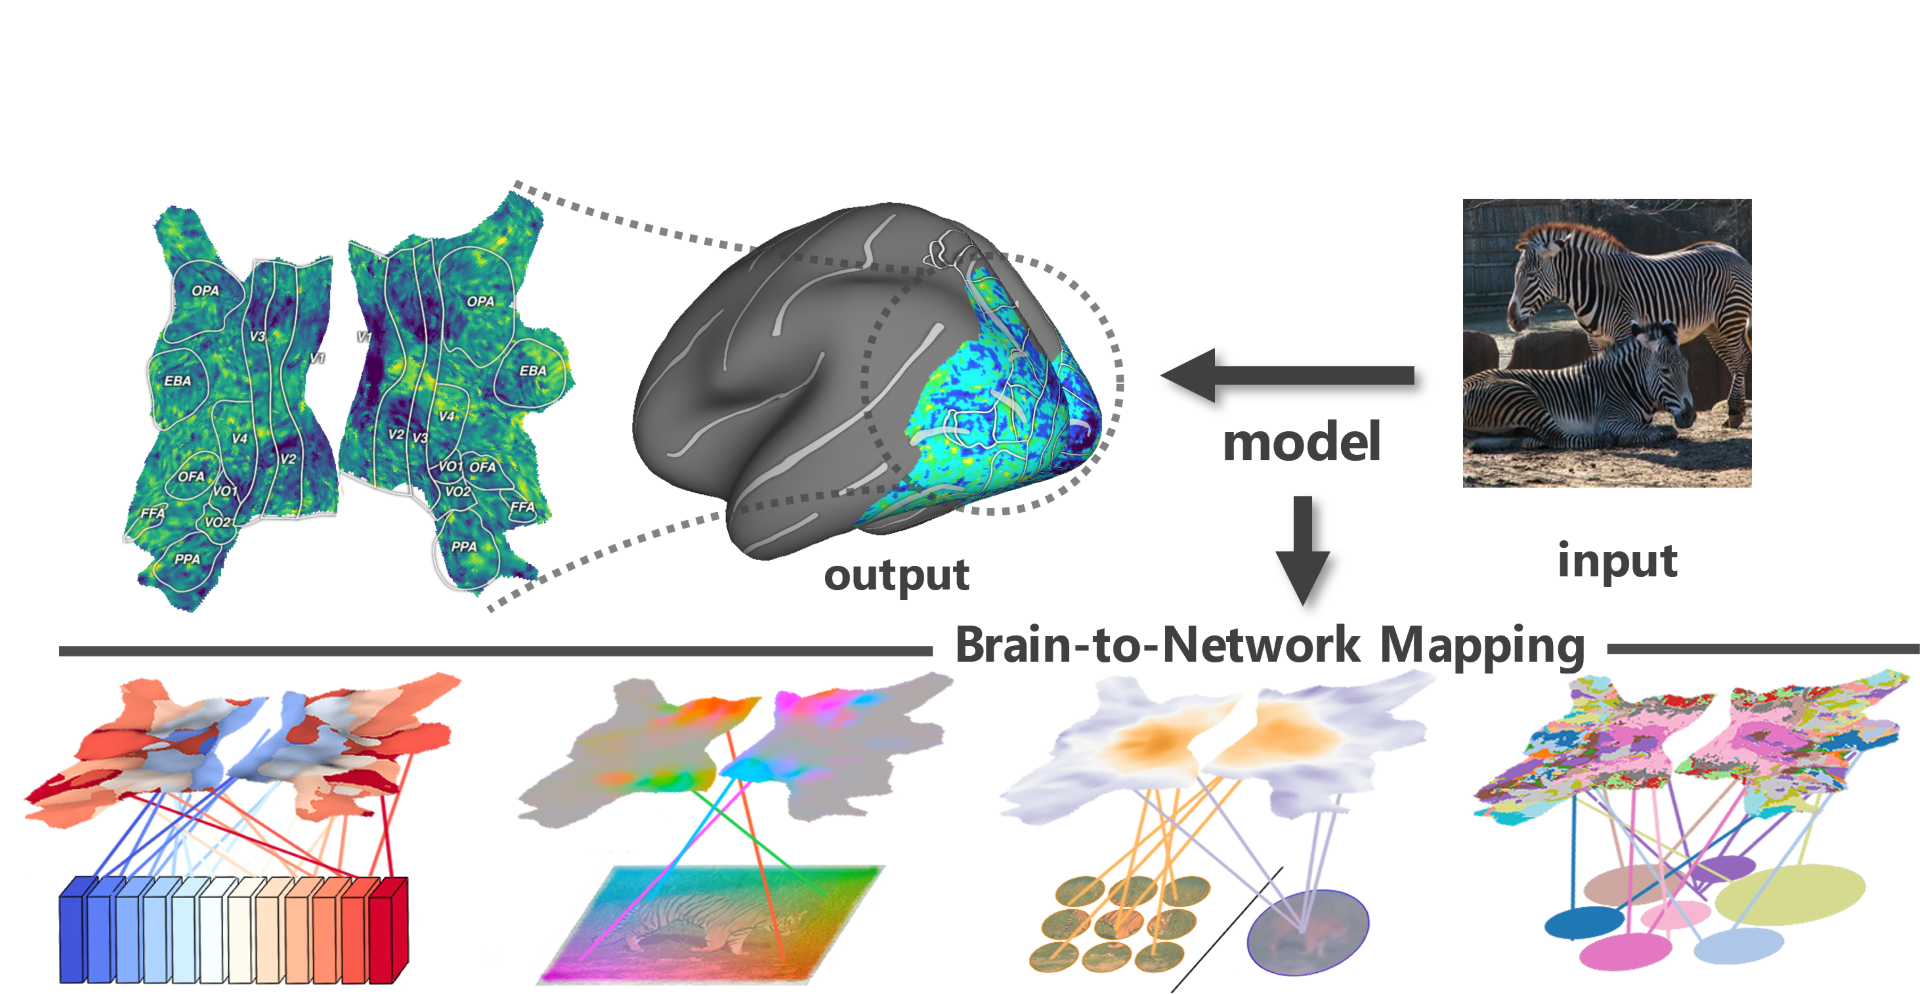
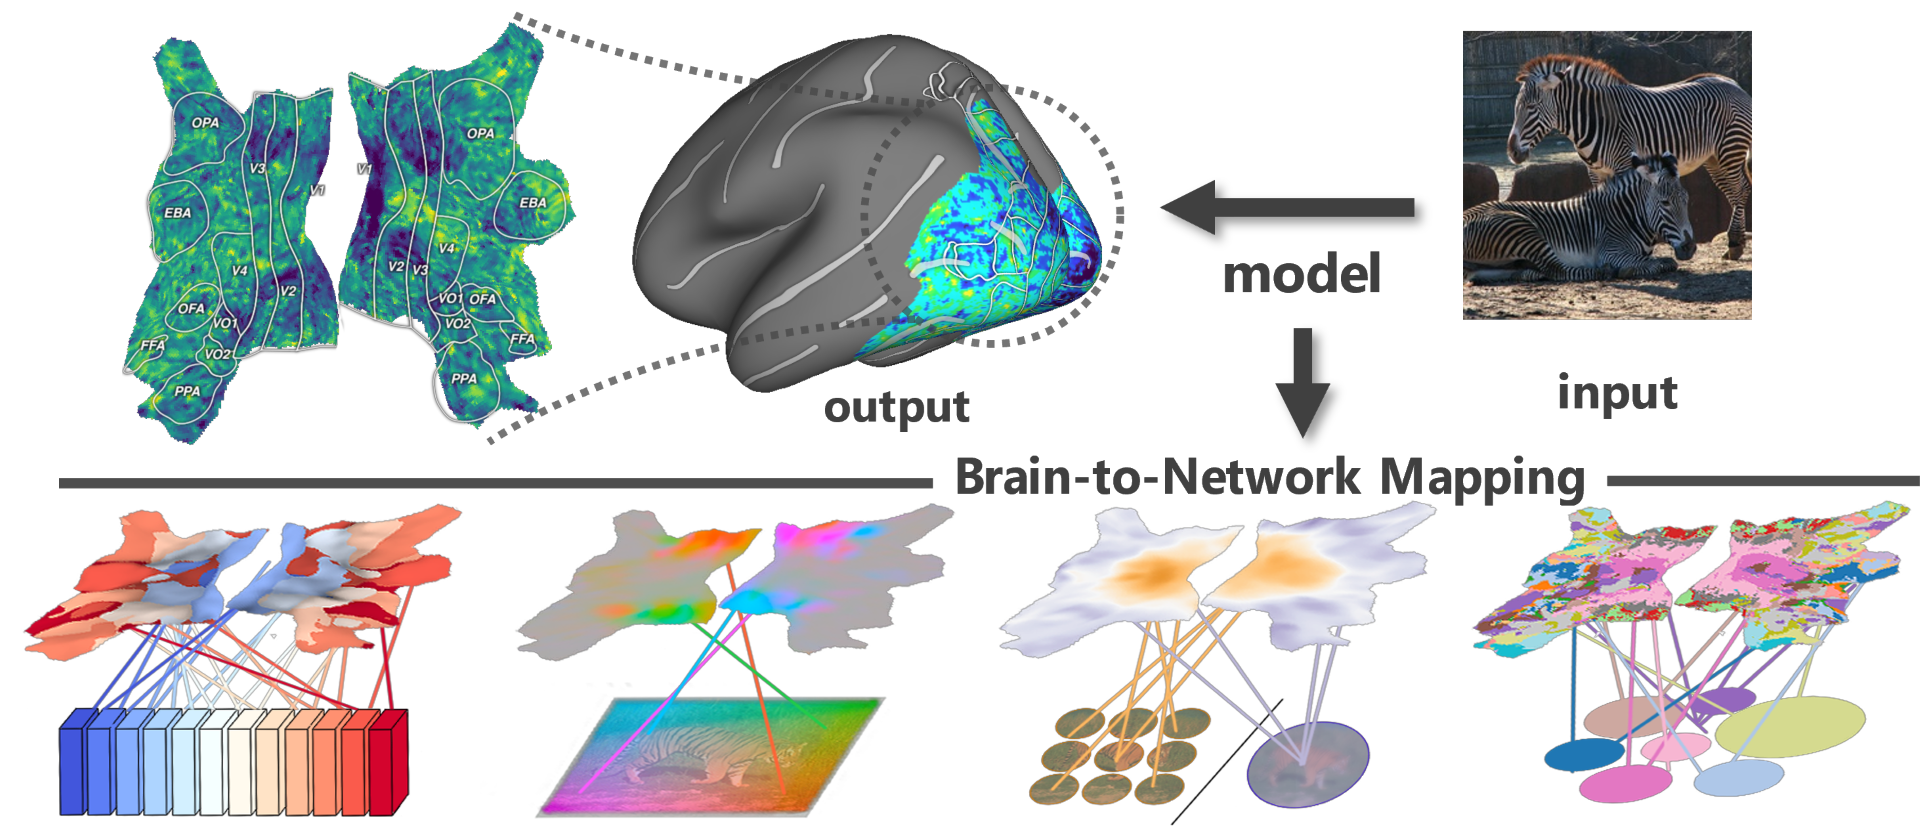
update

diff --git a/_pages/brain-decodes-deep-nets.md b/_pages/brain-decodes-deep-nets.md
@@ -12,7 +12,11 @@ subtitle: null
     <img src="assets/custom_images/slides_teaser.png" width="100%" style="margin-left:0%; margin-right:0%">
   </div> -->
 
-<iframe width="800" height="450" src="https://www.youtube.com/embed/1ZITyYGNLz0" title="Brain Decodes Deep Nets" frameborder="0" allow="accelerometer; autoplay; clipboard-write; encrypted-media; gyroscope; picture-in-picture; web-share" allowfullscreen></iframe>
+<!-- <iframe width="800" height="450" src="https://www.youtube.com/embed/1ZITyYGNLz0" title="Brain Decodes Deep Nets" frameborder="0" allow="accelerometer; autoplay; clipboard-write; encrypted-media; gyroscope; picture-in-picture; web-share" allowfullscreen></iframe> -->
+<div>
+  <img src="assets/custom_images/slides_teaser.png" width="800" style="margin-left:10%; margin-right:10%">
+</div>
+
 
 <!-- <div style="margin-top:100px;">
 We developed a tool for visualizing and analyzing large pre-trained vision models by mapping them onto the brain, thus exposing their hidden inside. 
@@ -22,7 +26,7 @@ Highlights: We found remarkable differences for same architecture models trained
 </div> -->
 
 <div style="margin-top:30px;">
-<h2> <em> The brain is massive; Deep networks are massive. </em> </h2>
+<h2> <em> Brain is massive; Deep nets are massive. </em> </h2>
 <!-- <h3> <em> What can these two massive systems, tell about each other? </em> </h3> -->
 <h2> <a style="color:#09AD94;"> <em> <span id="typing-text2"></span> </em>|</a></h2>
 </div>
@@ -36,7 +40,7 @@ Highlights: We found remarkable differences for same architecture models trained
     <p style="display: inline-block;">
       <a href="https://arxiv.org/abs/2312.01280" style="text-decoration: underline; color: lightblue; margin-right: 10px;">paper</a>
       <a href="https://github.com/huzeyann/BrainDecodesDeepNets" style="text-decoration: underline; color: lightblue; margin-right: 10px;">code</a>
-      <!-- <a href="https://www.youtube.com/TODO" style="text-decoration: underline; color: lightblue; margin-right: 10px;">video</a> -->
+      <a href="https://youtu.be/1ZITyYGNLz0" style="text-decoration: underline; color: lightblue; margin-right: 10px;">video</a>
       <!-- <a href="https://penno365-my.sharepoint.com/:p:/g/personal/huze_upenn_edu/EcuvlCSxjSBDk719Q_Dxc7ABNUebclx8wIUKAg2VGKwNXQ?e=a0oMma" style="text-decoration: underline; color: lightblue; margin-right: 10px;">slides</a> -->
       <!-- <a href="https://twitter.com/HuzeYann/TODO" style="text-decoration: underline; color: lightblue;">discussion</a> -->
     </p>
